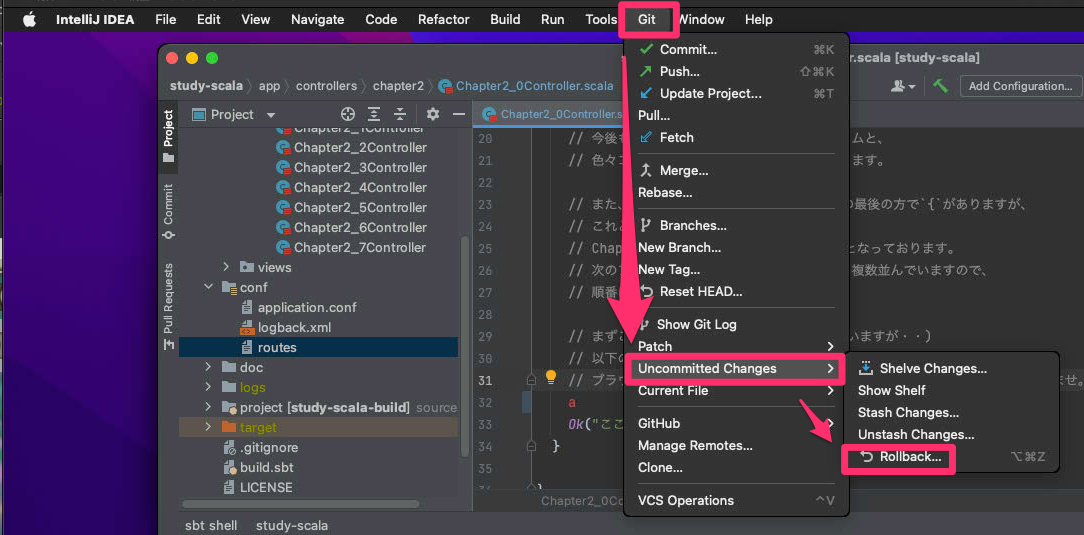
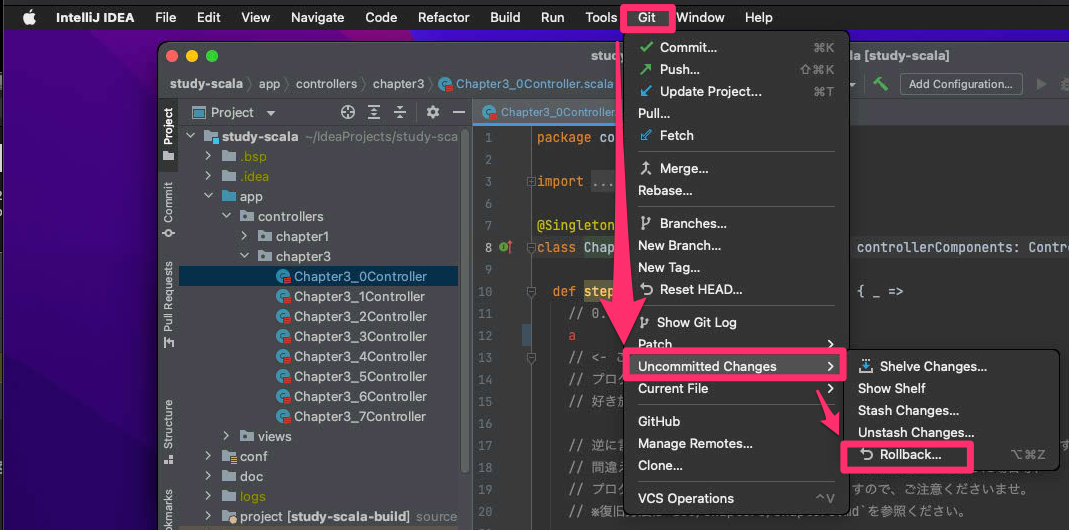
WIP: chapter3

diff --git a/doc/chapter3/chapter3.md b/doc/chapter3/chapter3.md
@@ -37,89 +37,83 @@ sbt shellを開き、`run`を実行します。
 
 ## 復旧手順
 
-ただ、もしかすると、下図のようにエラーが出てしまうケースがあるかもしれません。
+ただ、もしかすると、少し書き換えたことにより、  
+下図のようにエラーが出てしまうケースがあるかもしれません。
 
 ![scala4.png](image/scala4.png)
 
 その場合は、下図のようにメニューから、  
 Git -> Uncommitted Changes -> Rollback を選択して、
 
-・mac
-
 ![scala5.png](image/scala5.png)
 
-・win
-
-![scala5-win.png](image/scala5-win.png)
+※上図はmacですが、windowsの場合もウィンドウ上部にあるメニューから同様に操作できます。
 
 開いた下図モーダルで`Rollback`をした後に、再度ブラウザでURLを開き直してみてください。
 
 ![scala6.png](image/scala6.png)
 
 それでもうまくいかない場合は、パソコンを再起動して、  
-再チャレンジすればうまくいくかもしれません。
+再チャレンジすればうまくいくかもしれません・・！
 
 ## 学習ステップ一覧
 
 以下がソースファイルと各ステップと対応するURLになります。  
-長旅になると思います。1日1ステップとかのペースやそれ以下でも構いません。  
-じっくり読み進めてみてくださいませ。
+ずばり長旅になると思います。1日1ステップとかのペースや、それ以下でも構いません。  
+是非じっくり読み進めてみて欲しいです。
 
 |  タイトル   |  ファイル名 | サブタイトル  | 関数名(def) | URL | 
 | ---- | ---- | ---- | ---- | ---- |
-| 0. コメントとHTML | Chapter2_0Controller  |  -  | chapter2_0 | http://localhost:9000/chapter2/0
-| 1. 変数とリテラル  | Chapter2_1Controller |  1-1. 初めての変数(var) | chapter2_1_1 | http://localhost:9000/chapter2/1/1 |
-| | |  1-2. 文字列リテラル | chapter2_1_2 | http://localhost:9000/chapter2/1/2 |
-| | |  1-3. 変数値の上書き | chapter2_1_3 | http://localhost:9000/chapter2/1/3 |
-| | |  1-4. 初めてのval |  chapter2_1_4 | http://localhost:9000/chapter2/1/4 |
+| 0. コメントとHTML | Chapter2_0Controller  |  -  | step2_0 | http://localhost:9000/chapter3/0
+| 1. 変数とリテラル  | Chapter2_1Controller |  1-1. 初めての変数(var) | step1_1 | http://localhost:9000/chapter3/1/1 |
+| | | 1-2. 文字列リテラル | step1_2 | http://localhost:9000/chapter3/1/2 |
+| | | 1-3. 変数値の上書き | step1_3 | http://localhost:9000/chapter3/1/3 |
+| | | 1-4. 初めてのval |  step1_4 | http://localhost:9000/chapter3/1/4 |
+| 2. 型 | Chapter2_2Controller | 2-1. 初めての型 | step2_1 | http://localhost:9000/chapter3/2/1 |
+| | | 2-2. 演算子とString型の足し算 | step2_2 | http://localhost:9000/chapter3/2/2 |
+| | | 2-3. 初めてのInt(整数)型 | step2_3 | http://localhost:9000/chapter3/2/3 |
+| | | 2-4. 初めてのDouble(小数)型 | step2_4 | http://localhost:9000/chapter3/2/4 |
+| | | 2-5. Int型とDouble型 | step2_5 | http://localhost:9000/chapter3/2/5 |
+| | | 2-6. String型とInt型 | step2_6 | http://localhost:9000/chapter3/2/6 |
+| | | 2-7. 文字列リテラルの強化版 | step2_7 | http://localhost:9000/chapter3/2/7 |
+| | | 2-8. 基本型いろいろ | step2_8 | http://localhost:9000/chapter3/2/8 |
+| | | 2-9. 演算子色々 | step2_9 | http://localhost:9000/chapter3/2/9 |
+| | | 2-10. 演算子の計算順序と括弧 | step2_10 | http://localhost:9000/chapter3/2/10 |
+| 3. 分岐 | Chapter2_3Controller | 3-1. if ~ else if ~ else | step3_1 | http://localhost:9000/chapter3/3/1 |
+| | | 3-2. 入れ子のif式 | step3_2 | http://localhost:9000/chapter3/3/2 |
+| | | 3-3. match式 | step3_3 | http://localhost:9000/chapter3/3/3 |
+| | | 3-4. 分岐と型 | step3_4 | http://localhost:9000/chapter3/3/4 |
+| | | 3-5. match式でのガーーーード(if)！ | step3_5 | http://localhost:9000/chapter3/3/5 |
+| | | 3-6. 変数の範囲(スコープ) | step3_6 | http://localhost:9000/chapter3/3/6 |
+| | | 3-7. ifとmatchの使い分け | step3_7 | http://localhost:9000/chapter3/3/7 |
+| 4. 繰り返しとコレクション | Chapter2_4Controller | 4-1. List | step4_1 | http://localhost:9000/chapter3/4/1 |
+| | | 4-2. 繰り返し処理のためのfor式 | step4_2 | http://localhost:9000/chapter3/4/2 |
+| | | 4-3. 繰り返し処理のためのfor式 強化編その1 入れ子 | step4_3 | http://localhost:9000/chapter3/4/3 |
+| | | 4-4. 繰り返し処理のためのfor式 強化編その2 条件指定 | step4_4 | http://localhost:9000/chapter3/4/4 |
+| | | 4-5. for式サヨナラ!? | step4_5 | http://localhost:9000/chapter3/4/5 |
+| 5. 関数 | Chapter2_5Controller | 5-1. 関数の無い世界 | step5_1 | http://localhost:9000/chapter3/5/1 |
+| | | 5-2. 関数のある世界 | step5_2 | http://localhost:9000/chapter3/5/2 |
+| | | 5-3. 関数の引数 | step5_3 | http://localhost:9000/chapter3/5/3 |
+| | | 5-4. 関数で複数の値を返したい？タプル型・・あるよ。 | step5_4 | http://localhost:9000/chapter3/5/4 |
+| | | 5-5. タプル型・・・だと厳しい？ | step5_5 | http://localhost:9000/chapter3/5/5 |
+| 6. クラス | Chapter2_6Controller | 6-1. クラスって？ | step6_1 | http://localhost:9000/chapter3/6/1 |
+| | | 6-2. フィールド | step6_2 | http://localhost:9000/chapter3/6/2 |
+| | | 6-3. メソッド | step6_3 | http://localhost:9000/chapter3/6/3 |
+| | | 6-4. メソッド2 | step6_4 | http://localhost:9000/chapter3/6/4 |
+| | | 6-5. 組込型の演算子とメソッド | step6_5 | http://localhost:9000/chapter3/6/5 |
+| | | 6-6. クラスの継承 | step6_6 | http://localhost:9000/chapter3/6/6 |
+| | | 6-7. 抽象クラス | step6_7 | http://localhost:9000/chapter3/6/7 |
+| | | 6-8. 型と継承と多態性 | step6_8 | http://localhost:9000/chapter3/6/8 |
+| | | 6-9. Any型・Object型 | step6_9 | http://localhost:9000/chapter3/6/9 |
+| 7. 組込クラスと高階関数とラムダ式 | Chapter2_7Controller | 7-1. Option | step7_1 | http://localhost:9000/chapter3/7/1 |
+| | | 7-2. 高階関数 | step7_2 | http://localhost:9000/chapter3/7/2 |
+| | | 7-3. ラムダ式の省略記法 | step7_3 | http://localhost:9000/chapter3/7/3 |
+| | | 7-4. Option 2 | step7_4 | http://localhost:9000/chapter3/7/4 |
+| | | 7-5. List 2 | step7_5 | http://localhost:9000/chapter3/7/5 |
+| | | 7-6. Map | step7_6 | http://localhost:9000/chapter3/7/6 |
 
-以降TODO
+## まとめ
 
-* Chapter2_2Controller
-  * chapter2_2_1
-  * chapter2_2_2
-  * chapter2_2_3
-  * chapter2_2_4
-  * chapter2_2_5
-  * chapter2_2_6
-  * chapter2_2_7
-  * chapter2_2_8
-  * chapter2_2_9
-  * chapter2_2_10  
-* Chapter2_3Controller
-  * chapter2_3_1
-  * chapter2_3_2
-  * chapter2_3_3
-  * chapter2_3_4
-  * chapter2_3_5
-  * chapter2_3_6
-  * chapter2_3_7
-* Chapter2_4Controller
-  * chapter2_4_1
-  * chapter2_4_2
-  * chapter2_4_3
-  * chapter2_4_4
-  * chapter2_4_5 
-* Chapter2_5Controller
-  * chapter2_5_1
-  * chapter2_5_2
-  * chapter2_5_3
-  * chapter2_5_4
-  * chapter2_5_5
-* Chapter2_6Controller
-  * chapter2_6_1
-  * chapter2_6_2
-  * chapter2_6_3
-  * chapter2_6_4
-  * chapter2_6_5
-  * chapter2_6_6
-  * chapter2_6_7
-  * chapter2_6_8
-  * chapter2_6_9
-* Chapter2_7Controller
-  * chapter2_7_1
-  * chapter2_7_2
-  * chapter2_7_3
-  * chapter2_7_4
-  * chapter2_7_5
-  * chapter2_7_6 
+Scala完全に理解した！
+もっとだ！もっと力を！という方は、  
+Chapter4の完成をお待ち下さい・・・。  

diff --git a/README.md b/README.md
@@ -15,9 +15,13 @@ Scala言語でみんなでプログラミングに入門しちゃおうってプ
 
 ## 使い方
 
+基本的には以下のChapterリンクを順番に参照いただくことを想定しております。
+
 * Chapter.1でプログラミング体験をしちゃいます。
   * Mac(パソコンにリンゴマークがついているもの)をお使いの場合 -> [こちらをクリック](doc/chapter1/chapter1-mac.md)。
   * Windows(パソコンを起動時に窓みたいなロゴがでる)をお使いの場合 -> [こちらをクリック](doc/chapter1/chapter1-win.md)。 
   
-* Chapter.2
-  * 準備中です。
+* [Chapter.2](doc/chapter2/chapter2.md)ではWebアプリとHTMLの概要を把握しちゃいます。
+  * ざっくり内容です。 
+* [Chapter.3](doc/chapter3/chapter3.md)ではScalaプログラミングに入門しちゃいます。
+  * 割とマジな内容です。 

diff --git a/doc/chapter2/chapter2.md b/doc/chapter2/chapter2.md
@@ -158,6 +158,5 @@ Webアプリが行う仕事は本当に多岐にわたりますが、
 Webアプリ完全に理解した！  
 HTML完全に理解した！
 
-まだだ！まだ足りぬ！という方は、   
-[Topページ](https://github.com/igadaruma/study-scala) に戻りChapter3に進行を。  
+まだだ！まだ足りぬ！という方は[Chapter3](../chapter3/chapter3.md)に進行を。  
 いよいよ本格的にプログラミングを学習する段階になります。

diff --git a/doc/chapter1/chapter1-mac.md b/doc/chapter1/chapter1-mac.md
@@ -333,8 +333,7 @@ val answer = leftAsNumber - rightAsNumber
 プログラミング完全に理解した！  
 プログラミング完全に理解した！
 
-完全に理解したけど物足りないという方は、   
-[Topページ](https://github.com/igadaruma/study-scala) に戻りChapter2に進行を。
+完全に理解したけど物足りないという方は[Chapter2](../chapter2/chapter2.md)に進行を。
 
 ## 参考文献
 

diff --git a/doc/chapter1/chapter1-win.md b/doc/chapter1/chapter1-win.md
@@ -268,8 +268,7 @@ val answer = leftAsNumber - rightAsNumber
 プログラミング完全に理解した！  
 プログラミング完全に理解した！
 
-完全に理解したけど物足りないという方は、   
-[Topページ](https://github.com/igadaruma/study-scala) に戻りChapter2に進行を。
+完全に理解したけど物足りないという方は[Chapter2](../chapter2/chapter2.md)に進行を。
 
 ## 参考文献
 
